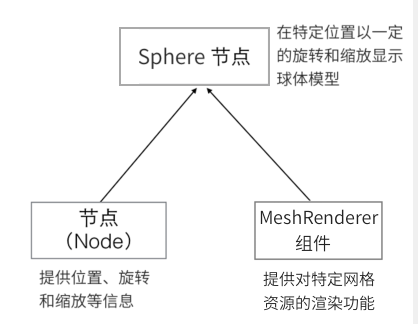
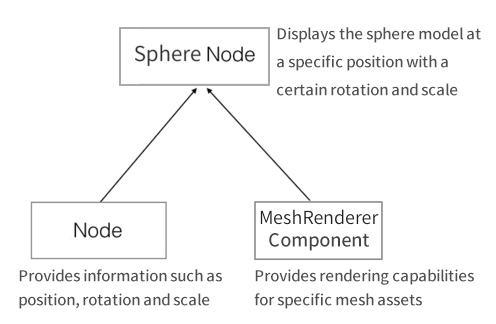
场景制作相关工作流程 - 整体翻译修正

diff --git a/en/concepts/scene/node-component.md b/en/concepts/scene/node-component.md
@@ -11,17 +11,17 @@ Nodes are the basic building blocks of a scene. Nodes are organized in a tree-li
 ![nodes](scene/nodes.jpg)
 
 Nodes have the following properties:
-- Nodes contain a set of base attributes (displacement, rotation, scaling), and nodes are organized together by a set of relative transformation relationships, as described in [coordinate system and transformations](./coord.md).
+- A node contains a set of base attributes (Position, Rotation, Scale), and nodes are organized together by a set of relative transformation relationships, as described in [coordinate systems and node transformation properties](./coord.md).
 - The update order between nodes is cascading. The update of child nodes depends on the parent node, and child nodes follow the parent node transformations.
 - Components can be added to a node to associate multiple components with the node.
 
 ### Create Nodes
 
-The quickest way to get a node with a specific function is to use the **Create Node** button in the top left corner of the **Hierarchy Manager**. Let's take the simplest example of creating a Sphere node by clicking on the **+** Create Node button in the upper left corner and then selecting **Create 3D Object -> Sphere**.
+The quickest way to get a node with a specific function is to use the **Create Node** button in the top left corner of the **Hierarchy** panel. Let's take the simplest example of creating a Sphere node by clicking on the **+** Create Node button in the upper left corner and then selecting **Create 3D Object -> Create Sphere**.
 
 ![create](scene/create.png)
 
-Then we can see the newly added Sphere node in **Scene** and **Hierarchy** panel. The new node is named `Sphere` by default, indicating that it is a node whose functionality is primarily provided by the Sphere component. You can also try clicking the **Create Node** button again to select another node type and see that they will be named and behave differently. Note that creating a UI node automatically creates a Canvas node as the root node of the UI node, as described in the document [UI Structure Description](../../ui-system/components/engine/index.md).
+Then we can see the newly added Sphere node in **Scene** and **Hierarchy** panel. The new node is named `Sphere` by default, indicating that it is a node whose functionality is primarily provided by the **Sphere** component. You can also try clicking the **Create Node** button again to select another node type and see that they will be named and behave differently. Note that creating a UI node automatically creates a Canvas node as the root node of the UI node, as described in the document [UI Structure Description](../../ui-system/components/engine/index.md).
 
 For more information about the operations of single-select, multi-select, copy, delete, etc. of nodes in the hierarchy manager, please refer to [Hierarchy Panel](../../editor/hierarchy/index.md).
 
@@ -34,10 +34,10 @@ Select the `Sphere` node we just created and you can see in the **Inspector** pa
 
 ![Properties](scene/inspector.png)
 
-The part of the **Inspector** that starts with the `Node` title is the node's properties, which include information about the node's position, rotation, scaling, and other transformations. We will cover this in detail in the [Coordinate System and Node Attribute Transformations](coord.md) section.
+The part of the **Inspector** panel that starts with the `Node` title is the node's properties, which include information about the node's `Position`, `Rotation`, `Scale`, and other transformations. We will cover this in detail in the [Coordinate Systems and Node Transformation Properties](coord.md) section.
 
-The next section, starting with the `cc.MeshRenderer` title, is the properties of the Sphere component. In Cocos Creator, the MeshRenderer component is used to draw mesh resources, where the `Mesh` property is used to specify the mesh resources used for rendering. Since we just created the Sphere node, the default here is `sphere.mesh`. <br>
-And the `Materials` property is used to specify the material used for rendering. You can try dragging any material from the **Assets** into the `Materials` property of the **Inspector** and you can see that the default material just became the specified material.
+The next section, starting with the `cc.MeshRenderer` title, is the properties of the **Sphere** component. In Cocos Creator, the **MeshRenderer** component is used to draw mesh resources, where the `Mesh` property is used to specify the mesh resources used for rendering. Since we just created the Sphere node, the default here is `sphere.mesh`. <br>
+And the `Materials` property is used to specify the material used for rendering. You can try dragging any material from the **Assets** into the `Materials` property of the **Inspector** panel and you can see that the default material just became the specified material.
 
 > Any resources set on the component, such as `sphere.mesh` in this case, will be loaded automatically at the same time as the scene loads. You can also declare the types of resources to be set and loaded automatically in your custom components, see [Getting and loading resources](../../scripting/load-assets.md).
 
@@ -45,17 +45,17 @@ In addition to adding components manually in the editor, you can also control co
 
 ### Effect of Node Properties on Components
 
-Once the node and MeshRenderer components are combined, you can control the rendering of the mesh resources by modifying the node properties. You can adjust your node according to the properties marked by the red line in the figure below, and you can see that the rotation and scaling of the model have changed.
+Once the node and **MeshRenderer** component are combined, you can control the rendering of the mesh resources by modifying the node properties. You can adjust your node according to the properties marked by the red line in the figure below, and you can see that the rotation and scaling of the model have changed.
 
-**Before Adjustment**.
+**Before Adjustment**:
 
 ![node property](scene/node-before.png)
 
-**After Adjustment**.
+**After Adjustment**:
 
 ![node property](scene/node-after.png)
 
-We mentioned earlier that the component-based structure is combined to achieve functional extensions. The combination of the node and MeshRenderer components is shown in the following figure:
+We mentioned earlier that the component-based structure is combined to achieve functional extensions. The combination of the node and **MeshRenderer** component is shown in the following figure:
 
 ![node component relationship](scene/node-chart.png)
 
@@ -63,18 +63,18 @@ We mentioned earlier that the component-based structure is combined to achieve f
 
 Multiple components can be added to a node to add more functionality to the node. For example:
 
-We can go ahead and select the node `Sphere` in the above example, then click the **Add Component** button at the bottom of the **Inspector** and select **Light -> DirectionalLight** to add a **Directional Light** component.
+We can go ahead and select the node `Sphere` in the above example, then click the **Add Component** button at the bottom of the **Inspector** panel and select **Light -> DirectionalLight** to add a **Directional Light** component.
 
-Then set the properties of the **Directional Light** component, e.g. adjust the `Color` property of the directional light to red, and you can see that the color of the sphere model has changed, i.e. the DirectionalLight component we added to the node has taken effect!
+Then set the properties of the **Directional Light** component, e.g. adjust the `Color` property of the directional light to red, and you can see that the color of the sphere model has changed, i.e. the **DirectionalLight** component we added to the node has taken effect!
 
 ![button property](scene/directional-light.png)
 
-> It is not recommended to add a DirectionalLight component to a sphere node.
+> Here is just a brief example of a more obvious effect. It is not recommended to add a **DirectionalLight** component to a sphere node.
 
 For more details about other components, please refer to [components](../../editor/components/index.md) documentation.
 
 ## Summary
 
-In the above example, we first combine the MeshRenderer component with the node, and with the mesh resource that can specify the rendering material, we can modify the node properties to display the model in different ways, such as scaling and rotation. Now we add the DirectionalLight component to the node so that the node can show different effects depending on the state of the directional light source. This is the workflow of Cocos Creator 3.0 component-based development, where we can combine different functions on a node in such a way that we can achieve more complex goals.
+In the above example, we first combine the **MeshRenderer** component with the node, and with the mesh resource that can specify the rendering material, we can modify the node properties to display the model in different ways, such as scaling and rotation. Now we add the **DirectionalLight** component to the node so that the node can show different effects depending on the state of the directional light source. This is the workflow of Cocos Creator 3.0 component-based development, where we can combine different functions on a node in such a way that we can achieve more complex goals.
 
 Note that only one rendering component can be added to a node. Rendering components include **MeshRenderer**, **Sprite**, **Label**, **Graphics**, **Mask**, **RichText**, **UIStaticBatch**, etc.

diff --git a/en/concepts/scene/coord.md b/en/concepts/scene/coord.md
@@ -1,4 +1,4 @@
-# Coordinate Systems and Transformations
+# Coordinate Systems and  Node Transformation Properties
 
 In the document [Scene Panel](../../editor/scene/index.md) and [Nodes and Components](node-component.md), we introduced the ability to change the display behavior of nodes by using the **transformation tool Gizmo** and editing the properties of nodes in the **Inspector** panel. In this document we will take a deeper look at the coordinate system of the scene space in which the node is located and how the **Position**, **Rotation**, and **Scale** transformation properties of the node work.
 
@@ -10,7 +10,7 @@ We already know that you can set position properties for nodes, so where will a 
 
 The world coordinate system, also called absolute coordinate system, represents a unified coordinate system in the scene space in Cocos Creator 3.0 game development, and "world" is used to represent our game scene.
 
-The Creator 3.0 world coordinate system uses a Cartesian right-handed coordinate system with default x to the right, y to the top, z to the outside, and the -z axis for the front.
+The Creator 3.0 world coordinate system uses a Cartesian right-handed coordinate system with default **x** to the right, **y** to the top, **z** to the outside, and the **-z** axis for the front.
 
 ![right hand](coord/right_hand.png)
 
@@ -39,7 +39,7 @@ Nodes include three main transformation properties, **Position**, **Rotation** a
 
 ### Position
 
-**Position** consists of the `X`, `Y` and `Z` properties, which specify the coordinates of the node on the x-, y- and z-axes of the current coordinate system, respectively, and default to `(0, 0, 0)`.
+**Position** consists of the `X`, `Y` and `Z` properties, which specify the coordinates of the node on the X-axis, Y-axis and Z-axis of the current coordinate system, respectively, and default to `(0, 0, 0)`.
 
 ![position](coord/position-nodeA.png)
 
@@ -65,19 +65,19 @@ In the **Scene** panel, you can always use the [Move Transform Tool](../../edito
 
 The node hierarchy shown above is the same as the previous figure, except that the **Rotation** property of NodeA on the z-axis is set to **60** degrees, so you can see that in addition to NodeA itself being **counterclockwise** rotated by 60 degrees on the z-axis, its child NodeB is also **centered** on the z-axis. NodeB is also rotated **counterclockwise** on NodeA's z-axis. This also means that the rotation property affects the child nodes.
 
-> **Note**: the [rotation](../../../api/en/classes/scene_graph.node-1.html#rotation) property on a node is a quaternion that represents the angle of rotation about any axis. The property corresponding to `Rotation` in the **Inspector** is the property [EulerAngles](../../../api/en/classes/scene_graph.node-1.html#eulerangles). These two properties can be used separately according to your needs. When using the API, please make sure to pay attention to the difference between them and the editor panel property names.
+> **Note**: the [rotation](../../../../api/en/classes/scene_graph.node-1.html#rotation) property on a node is a quaternion that represents the angle of rotation about any axis. The property corresponding to `Rotation` in the **Inspector** is the property [EulerAngles](../../../../api/en/classes/scene_graph.node-1.html#eulerangles). These two properties can be used separately according to your needs. When using the API, please make sure to pay attention to the difference between them and the editor panel property names.
 
 In the **Scene** panel, you can always use the [rotate transform tool](../../editor/scene/transform-gizmo.md) to set the rotation of the node.
 
-### Scaling
+### Scale
 
-The **Scale** property also consists of the `X`, `Y` and `Z` attributes, which represent the scaling of the node on the x-, y- and z-axes, respectively, and defaults to `(1, 1, 1)`.
+The **Scale** property also consists of the `X`, `Y` and `Z` properties, which represent the scaling of the node on the x-axis, y-axis and z-axis, respectively, and defaults to `(1, 1, 1)`.
 
 ![scale](coord/scale.png)
 
 The node hierarchy shown above is the same as when `Position` was introduced. Setting the scale property of NodeA to `(2, 1, 1)` means that NodeA is scaled to **2** times its original size in the x-axis direction, while the y-axis and z-axis remain unchanged. You can see that the child node NodeB is also scaled to twice its original size in the x-axis direction, so the scaling property affects all child nodes.
 
-The scaling properties set on the child nodes are superimposed on the parent node's scaling, and the children of the child nodes **multiply** all the scaling properties at each level to obtain the scaling multiplier displayed in the world coordinate system. This is actually the same as the **position** and **rotation** properties, except that the **position** and **rotation** properties are **additive**, while the **scaling** property is **multiplicative**, which has a more pronounced effect.
+The `Scale` property set on a child node are superimposed on its parent node's scaling, and the child nodes of the child node **multiply** all the `Scale` properties at each level to obtain the scaling multiplier displayed in the world coordinate system. This is actually the same as the **position** and **rotation** properties, except that the **position** and **rotation** properties are **additive**, while the **scaling** property is **multiplicative**, which has a more pronounced effect.
 
 The **Scale** property does not affect the **Position** and **Rotation** of the current node, but it does affect the **Position** of the child nodes.
 

diff --git a/en/concepts/scene/skybox.md b/en/concepts/scene/skybox.md
@@ -1,16 +1,16 @@
 # Skybox
 
-The skybox in a video game is a cube that wraps around the entire scene and can render and display the entire scene environment very well. The Skybox can also contribute very important IBL ambient lighting in PBR-based workflows.
+The skybox in a video game is a cube that wraps around the entire scene and can render and display the entire scene environment very well. The Skybox can also contribute very important IBL ambient lighting the in PBR-based workflow.
 
 ![skybox](skybox/Skybox.png)
 
 ## Enable Skybox
 
-Check **Scene** in the **Hierarchy** panel, then check the **Enabled** property in the **skybox** component of the **Inspector** panel to enable the skybox.
+Check **Scene** in the **Hierarchy** panel, then check the **Enabled** property in the **Skybox** component of the **Inspector** panel to enable the skybox.
 
  ![enable skybox](skybox/enable-skybox.png)
 
-The skybox component properties are as follows:
+The **Skybox** component properties are as follows:
 
 | Property | Description |
 | :---| :--- |
@@ -31,31 +31,31 @@ After enabling the skybox, you also need to set the skybox's environment map. Th
 
     ![Set to TextureCube](skybox/texturecube.png)
 
-3. Check **Scene** in the **Hierarchy** panel, then drag the set texture asset to the **Envmap** property box of the **skybox** component in the **Inspector** panel.
+3. Check **Scene** in the **Hierarchy** panel, then drag the set texture asset to the **Envmap** property box of the **Skybox** component in the **Inspector** panel.
 
     ![Set environment map for skybox](skybox/set-envmap.png)
 
 Then the setup is done. The developer can see the set environment map of the skybox in the **Scene** panel. If the map is not displayed correctly, you need to check if the value of **SkyIllumination parameter** is too low, or **modify the Clear Flag** of Camera.
 
-#### SkyIllumination Parameter
+#### SkyIllumination Property
 
-The SkyIllumination parameter can be found in the **Scene** component of the **Inspector** panel by selecting **Scene** in the **Hierarchy** panel and then in the **ambient** component of the **Inspector** panel, with a default value of 20000.
+The SkyIllumination property can be found in the **Scene** component of the **Inspector** panel by selecting **Scene** in the **Hierarchy** panel and then in the **Ambient** component of the **Inspector** panel, with a default value of 20000.
 
-If the SkyIllumination parameter is set **too low**, the environment map of the skybox may not be displayed correctly in the **Scene** panel. General:
+If the SkyIllumination property is set **too low**, the environment map of the skybox may not be displayed correctly in the **Scene** panel. General:
 
-- When the SkyIllumination parameter value is less than 300, the environment map of the Skybox will not be displayed properly.
+- When the SkyIllumination property value is less than 300, the environment map of the Skybox will not be displayed properly.
 
-- When the SkyIllumination parameter is 5000, the effect is equivalent to the light intensity of a moonlit night.
+- When the SkyIllumination property is 5000, the effect is equivalent to the light intensity of a moonlit night.
 
 #### Modify ClearFlags of Camera
 
-If the environment map of the skybox is already displayed correctly in the **Scene** panel but still does not take effect after the project is run, you need to change the **ClearFlags** of the Camera component to **SKYBOX**:
+If the environment map of the skybox is already displayed correctly in the **Scene** panel but still does not take effect after the project is run, you need to change the **ClearFlags** of the **Camera** component to **SKYBOX**:
 
 ![](skybox/skybox-camera.png)
 
 ### By Setting the CubeMap
 
-To use a CubeMap as the environment map for the skybox, you need to create a CubeMap and drag it into the **Envmap** property box of the skybox component. The operation steps are as follows:
+To use a CubeMap as the environment map for the skybox, you need to create a CubeMap and drag it into the **Envmap** property box of the **Skybox** component. The operation steps are as follows:
 
 1. Select all the six prepared texture assets in the **Assets** panel, and then set the **Type** property of these texture assets to **texture** in the **Inspector** panel, and click the green checkbox in the upper right corner.
 
@@ -73,7 +73,7 @@ To use a CubeMap as the environment map for the skybox, you need to create a Cub
     > - The property boxes in CubeMap that do not have a texture asset yet will be populated using the default asset.
     > - The six property boxes in CubeMap **do not use the same texture**, otherwise they will not be displayed properly for some platforms.
 
-4. Finally, drag the finished CubeMap asset into the **Envmap** property box of the skybox component, and you are done with the CubeMap application.
+4. Finally, drag the finished CubeMap asset into the **Envmap** property box of the **Skybox** component, and you are done with the CubeMap application.
 
     ![CubeMap](skybox/cubemap-show.png)
  

diff --git a/en/concepts/scene/scene-editing.md b/en/concepts/scene/scene-editing.md
@@ -1,8 +1,8 @@
 # Build a Scene Image Using the Scene Panel
 
-This document will introduce the use of the [Scene](../../editor/scene/index.md) panel to create and edit scene images.
+This document will introduce the workflow and tips of using [Scene](../../editor/scene/index.md) panel to create and edit scene images.
 
-## Quickly Add Basic Node Types Using the "Create Node" Menu
+## Use the "Create Node" Menu to Quickly Add Basic Node Types
 
 When we start adding content to the scene, we typically start with the **Create Node** menu in the **Hierarchy** panel, which is the menu that pops up when you click the **+** button in the upper left corner, and select the base node type we need from several simple node categories and add it to the scene.
 
@@ -18,7 +18,7 @@ Select **Create 3D Object** in the **Create Node** menu to create some of the mo
 
 ### UI Nodes
 
-UI nodes can be created by selecting **Create UI** from the **Create Node** menu. UI nodes in Creator 3.0 require that any parent node must have at least one UITransform component. And every UI node itself will also have a UITransform component.
+UI nodes can be created by selecting **Create UI** from the **Create Node** menu. UI nodes in Creator 3.0 require that any parent node must have at least one **UITransform** component. And every UI node itself will also have a **UITransform** component.
 
 So the Canvas node is the **root node** of UI rendering, and all rendering-related UI nodes are placed under the Canvas, which has the following benefits:
 
@@ -27,7 +27,7 @@ So the Canvas node is the **root node** of UI rendering, and all rendering-relat
 
 #### 2D Rendering Nodes
 
-The **Create Node** menu allows you to create node types consisting of nodes and base rendering components like ParticleSystem, Sprite, Label, Mask, etc.
+The **Create Node** menu allows you to create node types consisting of nodes and base rendering components like **ParticleSystem**, **Sprite**, **Label**, **Mask**, etc.
 
 The base 2D rendering component here cannot be replaced by a combination of other components. Note that only one rendering component can be added to each node, and repeated additions will result in an error. However, complex interface controls can be implemented by combining different rendering nodes, such as the UI control node below.
 
@@ -35,7 +35,7 @@ The base 2D rendering component here cannot be replaced by a combination of othe
 
 Common UI controls including Button, Widget, Layout, ScrollView, EditBox, etc. nodes can be created from the **UI** category in the **Create Node** menu.
 
-UI nodes are mostly a combination of rendered nodes, for example, the Button node we created through the menu includes a button background node with Button + Sprite components, plus a label node with Label components:
+UI nodes are mostly a combination of rendered nodes, for example, the **Button** node we created through the menu includes a button background node with a **Button** component + a **Sprite** component, and a label node with a **Label** component:
 
 ![](scene-editing/button-breakdown.png)
 
@@ -64,9 +64,9 @@ When the **Scene** panel is in **2D** view, there is a row of buttons in the upp
 
 Assuming that all three Label nodes are selected, the six alignment buttons from left to right will align these nodes in turn:
 
-- top-aligned to the nearest upper border (not the upper border of the topmost node)
-- vertically centered, aligned to the overall horizontal center line
-- bottom-aligned, aligned to the nearest lower boundary
+- Top-aligned to the nearest upper border (not the upper border of the topmost node)
+- Vertically centered, aligned to the overall horizontal center line
+- Bottom-aligned, aligned to the nearest lower boundary
 - Left-aligned to its closest left border
 - Horizontally centered, aligned to the overall vertical center line
 - Right-aligned, aligned to the nearest right border
@@ -88,7 +88,7 @@ For example, in the figure below, when we align the three Label nodes with diffe
 
 ## Scene Display Effects
 
-There is also support for setting skyboxes, global fog effects, and shadows in the scene to better enrich the scene and render and display the scene environment. For details, please refer to:
+There is also support for setting the Skybox, Global Fog, and Shadows in the scene to better enrich the scene and render and display the scene environment. For details, please refer to:
 
 - [Skybox](./skybox.md)
 - [Global Fog](./fog.md)

diff --git a/en/concepts/scene/node-tree.md b/en/concepts/scene/node-tree.md
@@ -1,10 +1,10 @@
-# Node Hierarchy and Display Order
+# Node Hierarchy and Rendering Order
 
-In the previous section, we learned about the ability to create multiple elements in a scene through a combination of nodes and components. When there are more and more elements in the scene, we need to group the nodes according to their logical functions through the node hierarchy and arrange their display order as needed.
+In the previous section, we've learnt that by combining Nodes and Components we can create all kinds of images, texts and interactive elements in a scene. When there are more and more elements in the scene, we can use the **Hierarchy** panel to arrange their hierarchy and rendering order to make things organized.
 
 ## Hierarchy Panel
 
-When creating and editing nodes, the **Scene** panel can display an intuitive visualization of scene elements. The hierarchical relationships between nodes need to be checked and manipulated using the **Hierarchy** panel. Please read the introduction of the [Hierarchy](../../editor/hierarchy/index.md) panel first to learn how to use the **Hierarchy Manager**.
+When creating and editing nodes, the **Scene** panel can display an intuitive visualization of scene elements. The hierarchical relationships between nodes need to be checked and manipulated using the **Hierarchy** panel. Please read the introduction of the [Hierarchy](../../editor/hierarchy/index.md) panel first to learn how to use it.
 
 ## Node Trees
 
@@ -22,7 +22,7 @@ We call those displayed in the upper level as parent nodes and those displayed i
 
 ![](node-tree/in_hierarchy.png)
 
-Because Creator 3.0 UI nodes require any parent node to have at least one UITransform component, if it does not comply with the rules, a Canvas node will be automatically added as its parent, so the node tree in the above figure puts all UI nodes under the Canvas node. Then we create parent nodes according to the category and put nodes of the same category under one parent node to build the node tree.
+Because Creator 3.0 UI nodes require any parent node to have at least one **UITransform** component, if it does not comply with the rules, a Canvas node will be automatically added as its parent, so the node tree in the above figure puts all UI nodes under the Canvas node. Then we create parent nodes according to the category and put nodes of the same category under one parent node to build the node tree.
 
 In real game projects, we can also use other methods (such as game logic) to organize the node tree as needed.
 
@@ -33,8 +33,8 @@ The rendering and occlusion relationship of UI nodes, on the other hand, is infl
 
 Other rendering-related references can be found in.
 - [Graphics Rendering](../../module-map/graphics.md)
-- [Particle Rendering](../../particle-system/renderer.md)
-- [Model Grouping Rendering](../../engine/renderable/model-component.md)
+- [Particle Renderer](../../particle-system/renderer.md)
+- [Model Group Rendering](../../engine/renderable/model-component.md#model-group-rendering)
 
 ## Performance Considerations
 

diff --git a/en/concepts/scene/shadow.md b/en/concepts/scene/shadow.md
@@ -10,7 +10,7 @@ Creator 3.0 currently supports both **Planar** and **ShadowMap** shadow types.
 
 To enable the shadow effect for an object, proceed as follows:
 
-1. Check **Scene** in the **Hierarchy** panel, and then check the **Enabled** property in the **shadows** component of the **Inspector** panel.
+1. Check **Scene** in the **Hierarchy** panel, and then check the **Enabled** property in the **Shadows** component of the **Inspector** panel.
 
     ![](shadow/enable-shadow.png)
 
@@ -18,13 +18,13 @@ To enable the shadow effect for an object, proceed as follows:
     
     ![](shadow/set-meshrenderer.png)
 
-    If the shadow type is **ShadowMap**, you also need to set the **ReceiveShadow** property on the MeshRenderer component to **ON**.
+    If the shadow type is **ShadowMap**, you also need to set the **ReceiveShadow** property on the **MeshRenderer** component to **ON**.
 
 > **Note**: if the shadows are not displayed properly, you need to adjust the direction of the directional light.
 
 ## Shadow Type
 
-The shadow type can be set in the **Type** property of the shadows component.
+The shadow type can be set in the **Type** property of the **Shadows** component.
 
 ### Planar Shadow
 
@@ -42,7 +42,7 @@ The Planar shadow type is generally used for simpler scenes.
 
 Adjust the direction of the directional light to adjust the position of the shadow.
 
-> **Note**: planar shadows are only cast on planar surfaces, not on objects, which means that the **ReceiveShadow** property in the MeshRenderer component is invalid.
+> **Note**: planar shadows are only cast on planar surfaces, not on objects, which means that the **ReceiveShadow** property in the **MeshRenderer** component is invalid.
 
 ## ShadowMap
 

diff --git a/en/concepts/scene/index.md b/en/concepts/scene/index.md
@@ -6,8 +6,9 @@ A scene is an abstract collection of environmental factors in a game, a local un
 
 ## Scene Structure
 
-Cocos Creator implements a free scene structure with a node tree and a node component system. The **Node** is responsible for managing the parent-child relationship of the node tree and the spatial matrix transformation **Transform**, so that all entity nodes can be easily managed and placed in the scene. <br>
-The component system gives nodes a variety of advanced features, such as MeshRenderer components, Animation components, Light components, Terrain components, and more. One of the necessary elements of the 3D scene is the Camera component, which represents the player's viewpoint in the game, without which nothing can be seen. Therefore, when creating a scene, the Creator will create a node with the Camera component mounted by default.
+Cocos Creator implements a free scene structure with a node tree and a node component system. The **Node** is responsible for managing the parent-child relationship of the node tree and the spatial matrix transformation **Transform**, so that all entity nodes can be easily managed and placed in the scene. 
+
+The component system gives nodes a variety of advanced features, such as **MeshRenderer** component, **Animation** component, **Light** component, **Terrain** component, and more. One of the necessary elements of the 3D scene is the **Camera** component, which represents the player's viewpoint in the game, without which nothing can be seen. Therefore, when creating a scene, the Creator will create a node with the **Camera** component mounted by default.
 
 ## Scene Creation Related Workflow
 

diff --git a/en/concepts/scene/fog.md b/en/concepts/scene/fog.md
@@ -2,7 +2,7 @@
 
 Global fog is used to simulate fog effects in outdoor environments in video games. In addition to fog representation in video games, it can also be used to hide the model outside the camera's far clipping plane to improve rendering performance.
 
-Check **Scene** in the **Hierarchy** panel, then check the **Enabled** property in the **fog** component of the **Inspector** panel to enable global fog.
+Check **Scene** in the **Hierarchy** panel, then check the **Enabled** property in the **Fog** component of the **Inspector** panel to enable global fog.
 
 ![image](./fog/enable-fog.png)
 
@@ -69,7 +69,7 @@ Layered Fog is parallel to the horizontal plane and has a certain height. The he
 
 ![](./fog/layered-properties.png)
 
-| properties | description |
+| Property | Description |
 | :---| :--- |
 | **Enabled** | Whether to enable the global fog |
 | **FogColor** | The color of the global fog |

diff --git a/en/SUMMARY.md b/en/SUMMARY.md
@@ -80,7 +80,7 @@
 - [Scene Creation Workflow](concepts/scene/index.md)
     - [Nodes and Components](concepts/scene/node-component.md)
     - [Coordinate Systems and Transformations](concepts/scene/coord.md)
-    - [Node Hierarchy and Display Order](concepts/scene/node-tree.md)
+    - [Node Hierarchy and Rendering Order](concepts/scene/node-tree.md)
     - [Build a Scene Image Using the Scene Panel](concepts/scene/scene-editing.md)
     - [Skybox](concepts/scene/skybox.md)
     - [GlobalFog](concepts/scene/fog.md)

diff --git a/zh/SUMMARY.md b/zh/SUMMARY.md
@@ -80,7 +80,7 @@
 - [场景制作工作流程](concepts/scene/index.md)
     - [节点和组件](concepts/scene/node-component.md)
     - [坐标系和节点变换](concepts/scene/coord.md)
-    - [节点层级和显示顺序](concepts/scene/node-tree.md)
+    - [节点层级和渲染顺序](concepts/scene/node-tree.md)
     - [使用场景编辑器搭建场景](concepts/scene/scene-editing.md)
     - [天空盒](concepts/scene/skybox.md)
     - [全局雾](concepts/scene/fog.md)

diff --git a/zh/concepts/scene/node-tree.md b/zh/concepts/scene/node-tree.md
@@ -1,4 +1,4 @@
-# 节点层级和显示顺序
+# 节点层级和渲染顺序
 
 通过前面的内容，我们了解了通过节点和组件的组合，能够在场景中创建多种元素。当场景中的元素越来越多时，我们就需要通过节点层级来将节点按照逻辑功能归类，并按需排列它们的显示顺序。
 
